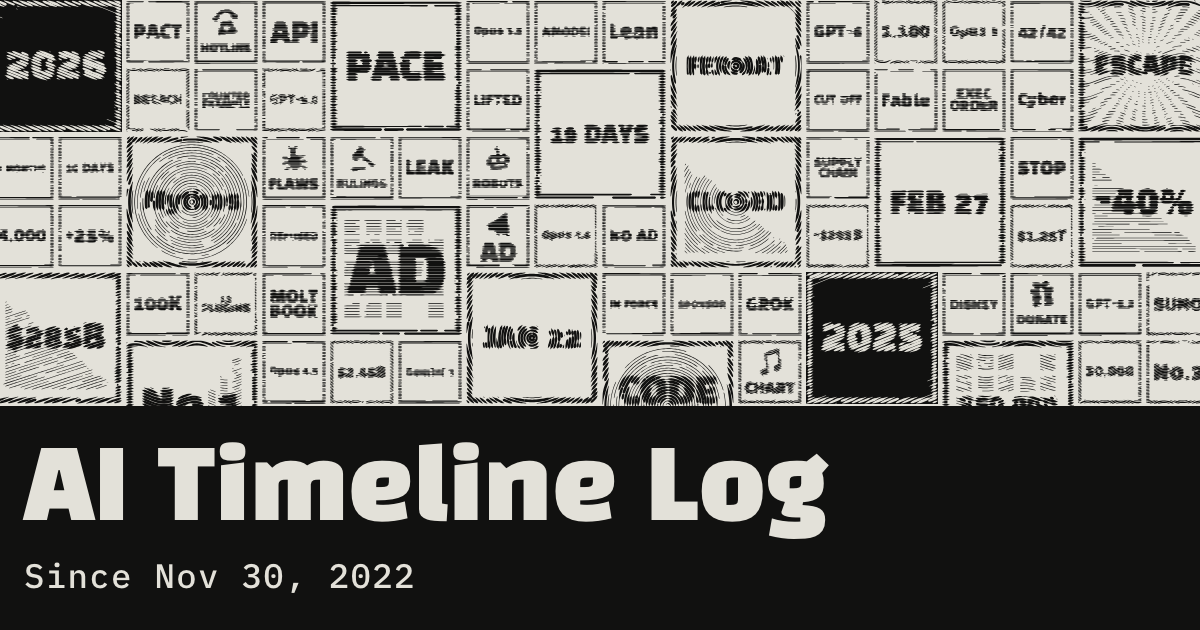
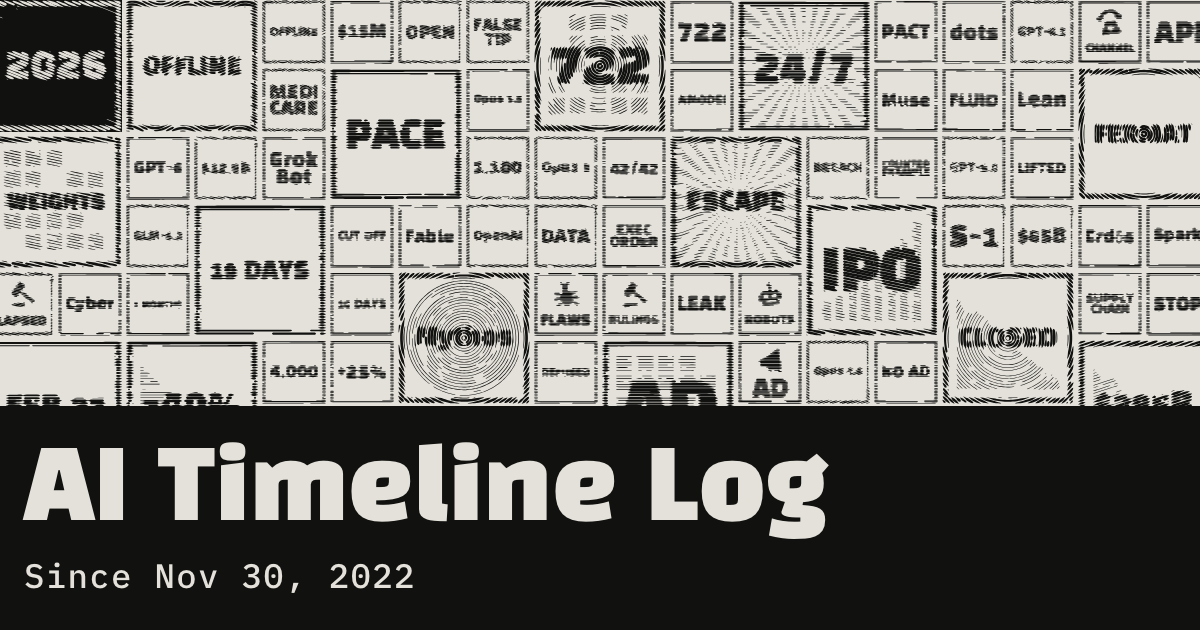
feat: add five 2026 scenes and correct two
New scenes (added 2026-10-27), each date checked against a primary
source or, where openai.com and pmc.gov.au block fetches, a report:
- 2026-06-ipo: Musk verdict, Series H, Anthropic and OpenAI S-1s
- 2026-09-open-weights: Nemotron 3 Ultra, GLM-5.2, NVIDIA to acquire
  Hugging Face, Muse Spark Open
- 2026-09-always-on: Gemini Spark, Grok Bot, Muse, dots
- 2026-10-math-review: Erdős disproof, Navier–Stokes claim, 722
  manuscripts, Simons Foundation effort
- 2026-10-offline: Medicare portal access, GPT-6.1 Astra scrapped,
  false police tip, offline frontier training

Corrections:
- pace: "hotline" -> bilateral communication channel (White House
  fact sheet)
- export-control: the 19-day halt applies to Fable 5; Mythos 5
  reopened to some U.S. organizations on June 26

Also: glossary entries, 2026 year summary, asOf 2026-10-27, tests
that pin scene counts, regenerated share images.

Changed region(s): [[0.0, 0.0, 1.0, 0.6635]]

diff --git a/tests/unit/view.test.ts b/tests/unit/view.test.ts
@@ -17,7 +17,7 @@ describe('buildView(ko)', () => {
   test('head, cover and report link', () => {
     expect(v.title).toBe('AI Timeline Log');
     expect(v.name).toBe('AI Timeline Log');
-    expect(v.description).toBe('ChatGPT 공개(2022.11.30)부터 현재까지, 생성형 AI의 사건을 흑백 목판화 상자로 찍어 최신순으로 늘어놓은 벽. 상자를 누르면 장면 33개의 자세한 내용이 열립니다.');
+    expect(v.description).toBe('ChatGPT 공개(2022.11.30)부터 현재까지, 생성형 AI의 사건을 흑백 목판화 상자로 찍어 최신순으로 늘어놓은 벽. 상자를 누르면 장면 38개의 자세한 내용이 열립니다.');
     expect(v.ogTitle).toBe('AI Timeline Log');
     expect(v.ogDescription).toBe('ChatGPT 공개부터 현재까지, 생성형 AI의 사건을 목판화 상자로 찍어 최신순으로 늘어놓았습니다. 상자를 누르면 자세한 내용이 열립니다.');
     expect(v.cover).toEqual({ glyph: '1,425일', tpl: '{days}일', start: '2022-11-30', lede: 'ChatGPT가 공개된 2022년 11월 30일부터 현재까지, AI가 지나온 장면들을 기록합니다.' });
@@ -46,7 +46,7 @@ describe('buildView(ko)', () => {
   });
 
   test('the wall is newest first, with a year box per year', () => {
-    expect(v.boxes.length).toBe(33 + 128 + 5);
+    expect(v.boxes.length).toBe(38 + 148 + 5);
     expect(v.boxes[0]).toMatchObject({ kind: 'year', addr: 'year-2026', date: '2026', off: false });
     expect(v.boxes.at(-1)).toMatchObject({ kind: 'scene', addr: '2022-11-chatgpt', date: '20221130' });   // 가장 오래된 상자
     expect(v.boxes.filter(b => b.kind === 'year').map(b => b.addr)).toEqual(['year-2026', 'year-2025', 'year-2024', 'year-2023', 'year-2022']);
@@ -87,19 +87,19 @@ describe('buildView(ko)', () => {
   test('only the scenes added on the latest date are marked as recently added', () => {
     const marked = v.scenes.filter(s => s.meta.includes('추가'));
     expect(marked).toHaveLength(5);
-    expect(marked.every(s => s.meta.endsWith(' · 추가 2026.10.18'))).toBe(true);
-    expect(marked.map(s => s.id)).toContain('2026-03-sora-shutdown');
+    expect(marked.every(s => s.meta.endsWith(' · 추가 2026.10.27'))).toBe(true);
+    expect(marked.map(s => s.id)).toContain('2026-10-offline');
     expect(scene('2025-01-deepseek').meta).not.toContain('추가');
-    expect(v.scenes.filter(s => !s.meta.includes('추가'))).toHaveLength(28);
+    expect(v.scenes.filter(s => !s.meta.includes('추가'))).toHaveLength(33);
   });
 
   test('events in a recently added scene carry the same mark, after the scene name', () => {
-    const sora = scene('2026-03-sora-shutdown');
-    expect(sora.items.length).toBeGreaterThan(0);
-    for (const it of sora.items) expect(it.meta).toMatch(/^\d{6,8} · .+ · ‘.+’ 장면의 사건 · 추가 2026\.10\.18$/);
-    const marked = v.scenes.filter(s => s.meta.endsWith(' · 추가 2026.10.18')).flatMap(s => s.items);
-    expect(v.scenes.flatMap(s => s.items).filter(it => it.meta.endsWith(' · 추가 2026.10.18'))).toEqual(marked);
-    expect(scene('2025-01-deepseek').items.every(it => !it.meta.endsWith(' · 추가 2026.10.18'))).toBe(true);
+    const fresh = scene('2026-10-offline');
+    expect(fresh.items.length).toBeGreaterThan(0);
+    for (const it of fresh.items) expect(it.meta).toMatch(/^\d{6,8} · .+ · ‘.+’ 장면의 사건 · 추가 2026\.10\.27$/);
+    const marked = v.scenes.filter(s => s.meta.endsWith(' · 추가 2026.10.27')).flatMap(s => s.items);
+    expect(v.scenes.flatMap(s => s.items).filter(it => it.meta.endsWith(' · 추가 2026.10.27'))).toEqual(marked);
+    expect(scene('2025-01-deepseek').items.every(it => !it.meta.endsWith(' · 추가 2026.10.27'))).toBe(true);
   });
 
   test('item sources: its own when it has some, else the scene sources', () => {
@@ -117,7 +117,7 @@ describe('buildView(ko)', () => {
   });
 
   test('details follow the wall order, newest first', () => {
-    expect(v.scenes).toHaveLength(33);
+    expect(v.scenes).toHaveLength(38);
     expect(v.scenes[0].id).toBe(v.boxes.find(b => b.kind === 'scene')!.addr);
     expect(v.scenes.at(-1)!.id).toBe('2022-11-chatgpt');
   });
@@ -134,8 +134,8 @@ describe('buildView(ko)', () => {
     expect(v.outro.ledgerTitle).toBe('주요 모델 판본');
     expect(v.outro.ledger[0].models[0]).toEqual({ name: 'ChatGPT (GPT-3.5)', date: '22.11' });
     expect(v.outro.sourcesTitle).toBe('출처와 기준');
-    expect(v.outro.sourcesNote.startsWith('2026년 10월 18일까지의 각 사 발표와')).toBe(true);
-    expect(v.outro.end).toEqual(['판 33장 · 2022.11.30 – 현재', 'AI Timeline Log']);
+    expect(v.outro.sourcesNote.startsWith('2026년 10월 27일까지의 각 사 발표와')).toBe(true);
+    expect(v.outro.end).toEqual(['판 38장 · 2022.11.30 – 현재', 'AI Timeline Log']);
     expect(v.outro.making).toContain('GitHub 이슈');
     expect(v.outro.makingTitle).toBe('만든 방법');
     expect(v.outro.titleTpl).toBe('{days}일 동안 바뀐 것');   // 브라우저가 보는 날로 다시 채우는 틀
@@ -161,10 +161,10 @@ describe('buildView(en)', () => {
   });
 
   test('recently added scenes and their events carry the English mark', () => {
-    const sora = e.scenes.find(s => s.id === '2026-03-sora-shutdown')!;
-    expect(sora.meta.endsWith(' · Added 2026.10.18')).toBe(true);
-    expect(sora.items.every(it => it.meta.endsWith(' · Added 2026.10.18'))).toBe(true);
-    expect(e.scenes.flatMap(s => s.items).filter(it => it.meta.endsWith(' · Added 2026.10.18'))).toHaveLength(
-      e.scenes.filter(s => s.meta.endsWith(' · Added 2026.10.18')).flatMap(s => s.items).length);
+    const fresh = e.scenes.find(s => s.id === '2026-10-offline')!;
+    expect(fresh.meta.endsWith(' · Added 2026.10.27')).toBe(true);
+    expect(fresh.items.every(it => it.meta.endsWith(' · Added 2026.10.27'))).toBe(true);
+    expect(e.scenes.flatMap(s => s.items).filter(it => it.meta.endsWith(' · Added 2026.10.27'))).toHaveLength(
+      e.scenes.filter(s => s.meta.endsWith(' · Added 2026.10.27')).flatMap(s => s.items).length);
   });
 });

diff --git a/tests/e2e/static.spec.ts b/tests/e2e/static.spec.ts
@@ -23,15 +23,15 @@ for (const path of ['./', './en/']) {
       const text = (await page.locator('#details').textContent())!;
       const missing = scenes.flatMap(s => [s[lang].title, ...s.items.map(it => it[lang])]).filter(t => !text.includes(t));
       expect(missing).toEqual([]);
-      await expect(page.locator('#details article.detail:not(.year)')).toHaveCount(33);
-      await expect(page.locator('#details ol.items > li')).toHaveCount(128);
+      await expect(page.locator('#details article.detail:not(.year)')).toHaveCount(38);
+      await expect(page.locator('#details ol.items > li')).toHaveCount(148);
       await expect(page.locator('#details article.detail.year')).toHaveCount(4);
     });
 
-    test('boxes: 166, newest first, links to addresses', async ({ page }) => {
+    test('boxes: 191, newest first, links to addresses', async ({ page }) => {
       await page.goto(path);
       const boxes = page.locator('.wall .box');
-      await expect(boxes).toHaveCount(166);
+      await expect(boxes).toHaveCount(191);
       await expect(page.locator('.wall > :first-child')).toHaveClass(/\bcover\b/);
       await expect(page.locator('.wall a.box').first()).toHaveAttribute('href', '#year-2026');
       const glyphs = await boxes.evaluateAll(els => els.map(e => (e as HTMLElement).dataset.glyph ?? ''));
